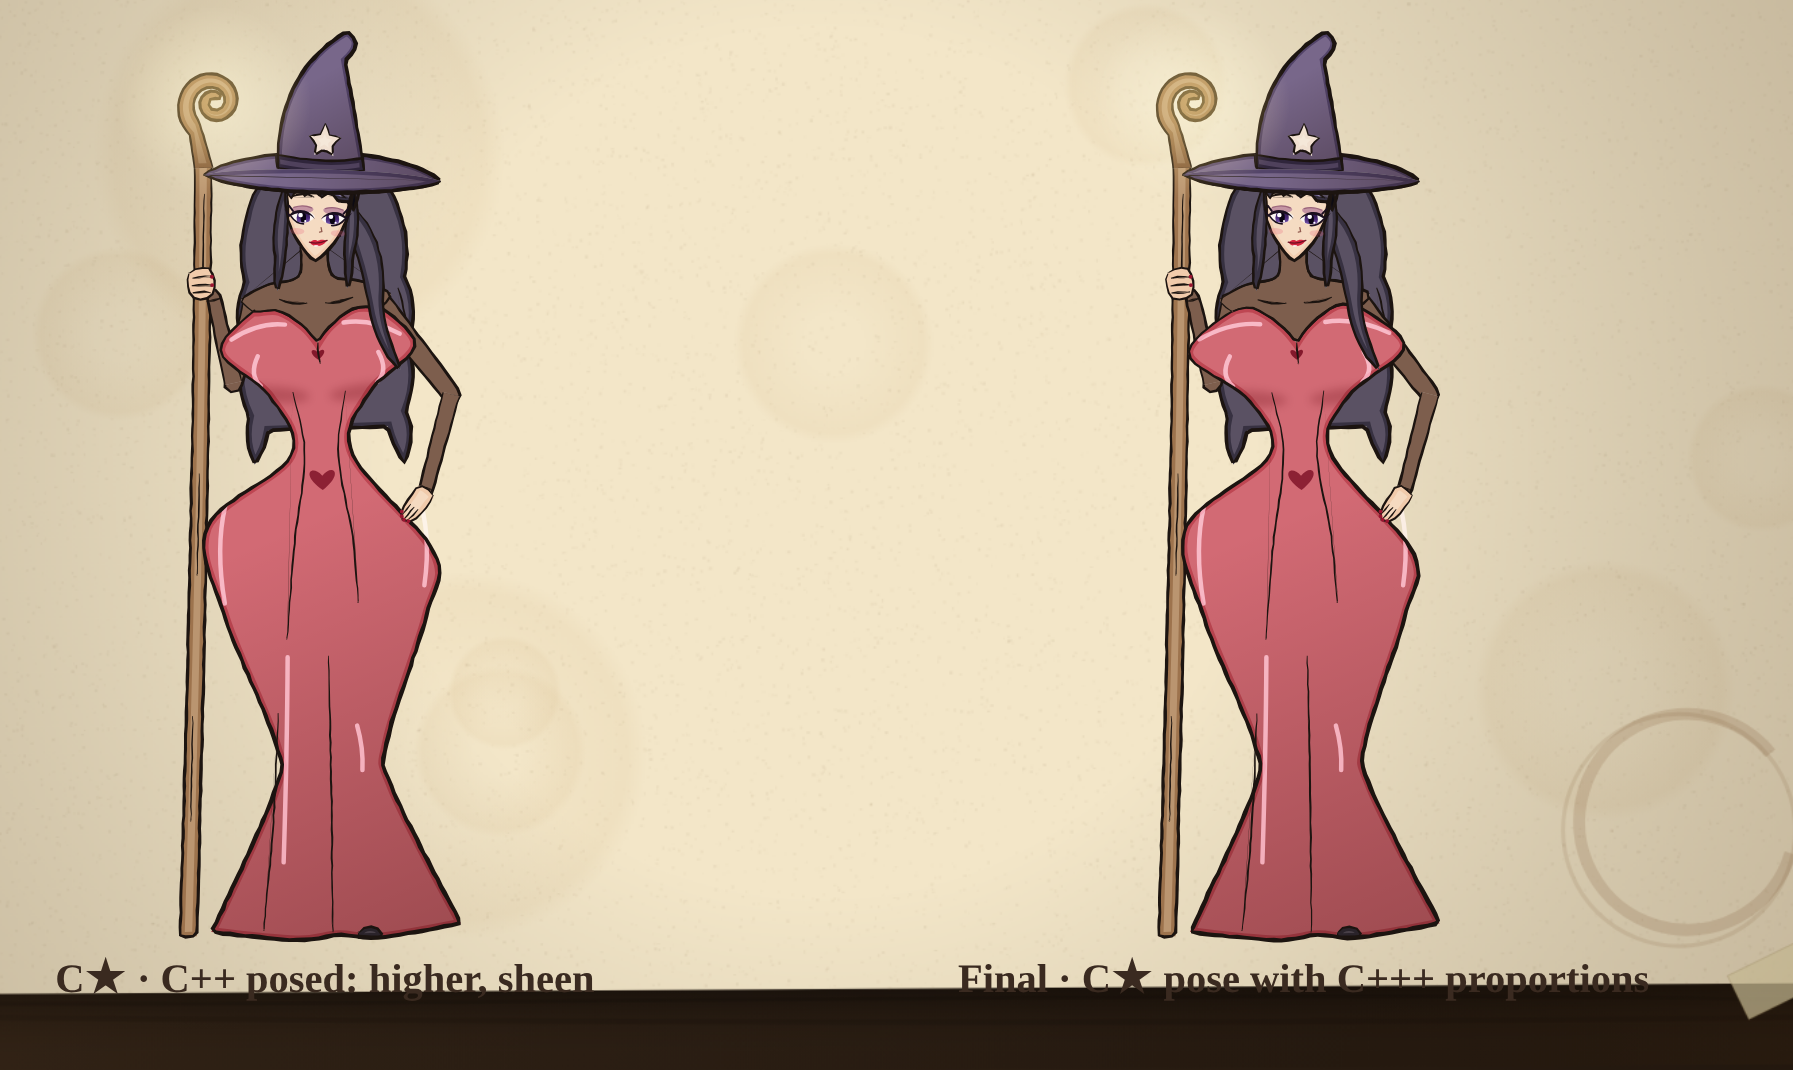
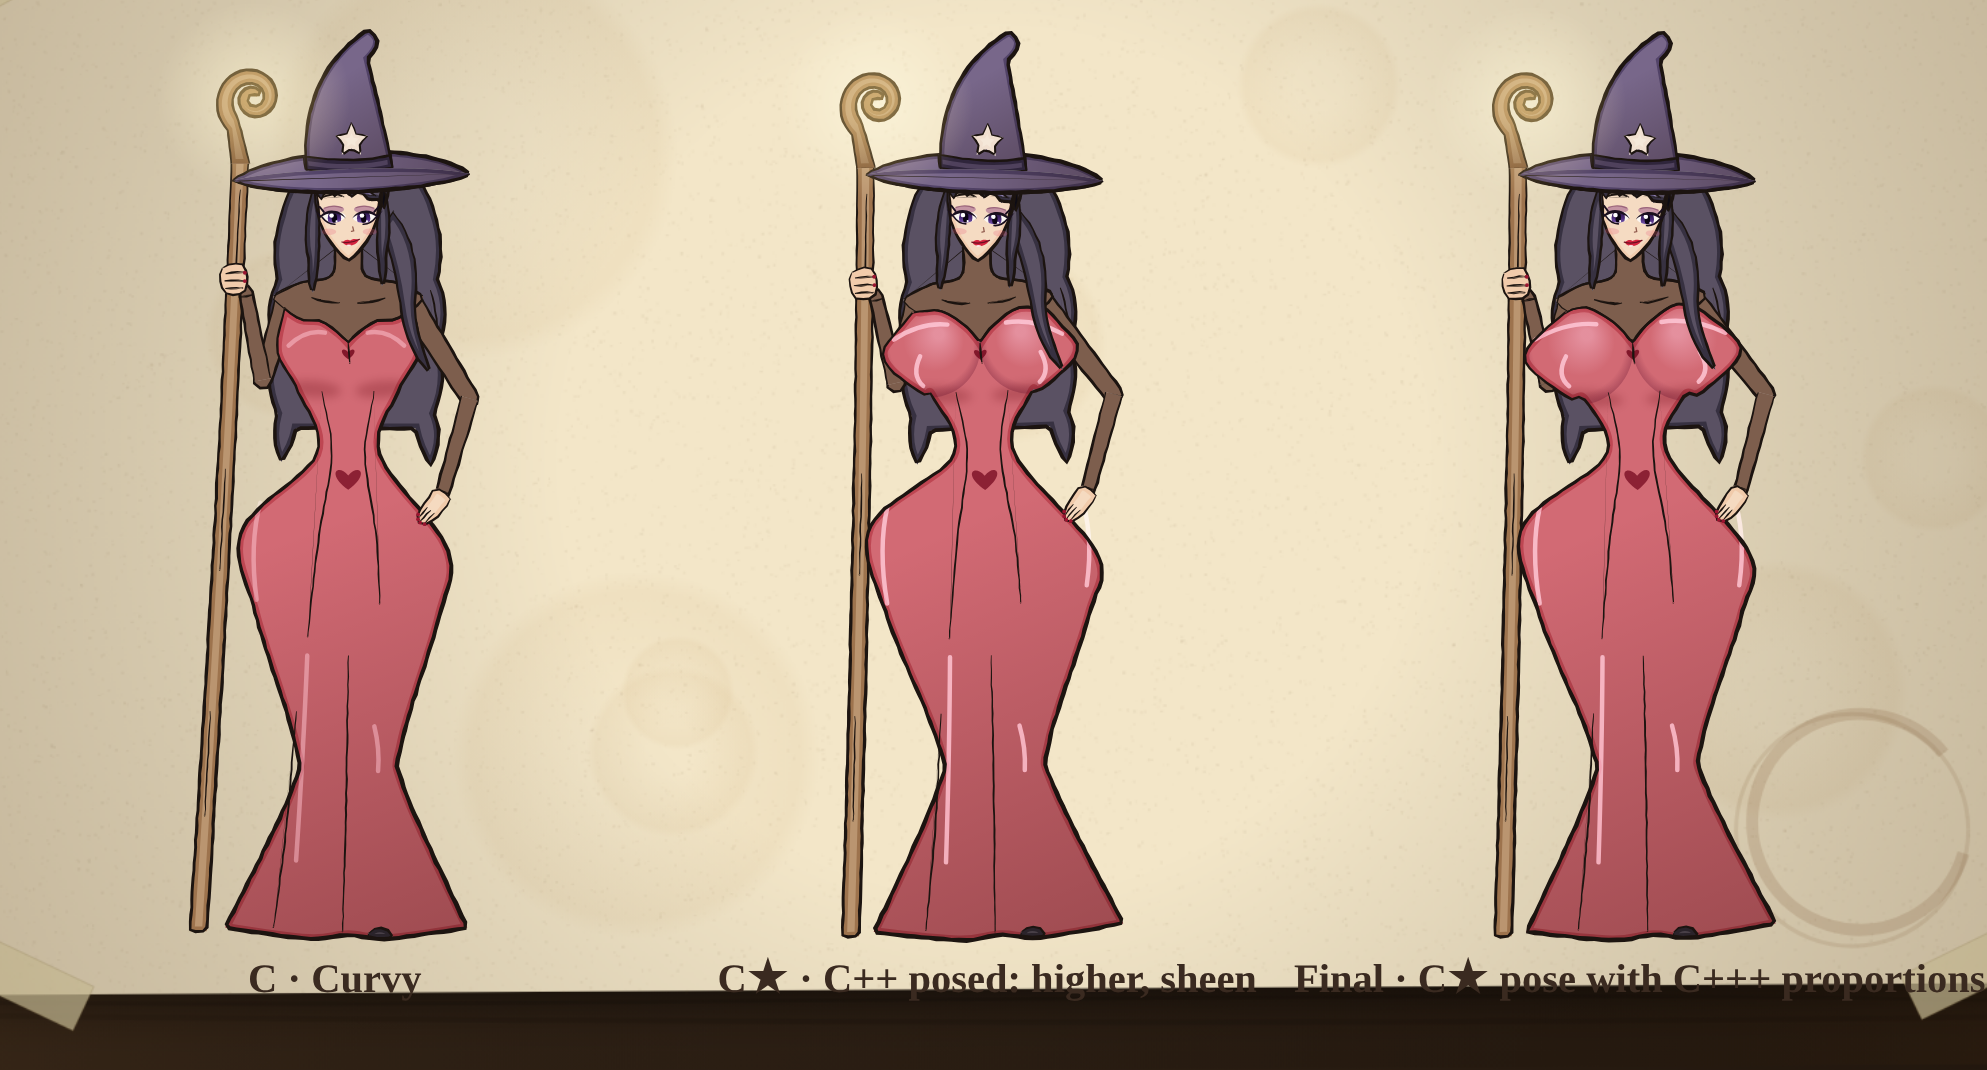
Intro: rounded bust outline and volume shading on the final Mirabel
Claude-Session: https://claude.ai/code/session_01XzFNxAWLNsBGA1aG5XiqgF

Changed region(s): [[0.0, 0.0308, 1.0, 0.9561], [0.9682, 0.771, 1.0, 0.8327], [0.9682, 0.6785, 0.9994, 0.7093]]

diff --git a/docs/cinematic/wip/style_tests.html b/docs/cinematic/wip/style_tests.html
@@ -458,9 +458,11 @@ canvas { display: block; width: 100%; height: 100%; }
     var B = v.B, W = v.W, Hh = v.Hh, Hb = v.Hb || v.Hh, L = v.lift, t = v.tilt, U = -292 + (v.ub || 0) - (v.hi || 0), HI = v.hi || 0; // U: underbust line; HI lifts the bust // Hh: hips, Hb: knees and hem
     var bs = B / 36.5, cupR = [[B * .14, -323 - 4 * (bs - 1) - HI * .4], [B * .38, -329 - 10 * (bs - 1) - HI * .4], [Math.min(31.5, B * .66), -330 - 8 * (bs - 1) - HI * .4]]; // right cup, centre outward
     var cupLn = cupR.slice().reverse().map(function (p) { return [-p[0], p[1]]; });
-    var neck = [[-34, -336, 1]].concat(cupLn, [[0, -318, 1]], cupR, [[34, -336, 1]]);
-    var right = [[B, -313 + (v.ub || 0) * .5 - HI], [W + 10, U], [W, -258 + L], [Hh - 2, -212 + L + t], [Hh * .88, -170 + L * .6], [Hb * .6, -104], [Hb * .63, -78], [Hb + 16, -4, 1], [Hb * .45, 2], [0, 0]];
-    var left = [[-Hb * .45, 2], [-(Hb + 18), -4, 1], [-Hb * .63, -78], [-Hb * .6, -104], [-Hh * .9, -172 + L * .6], [-(Hh + 2), -212 + L - t], [-W, -258 + L], [-(W + 10), U], [-B, -313 + (v.ub || 0) * .5 - HI]];
+    var big = B > 44, ay = -313 + (v.ub || 0) * .5 - HI; // big busts get a rounded outline: upper curve, apex, lower curve, tuck
+    var neck = (big ? [[-35.5, -335.5]] : [[-34, -336, 1]]).concat(cupLn, [[0, -318, 1]], cupR, big ? [[35.5, -335.5]] : [[34, -336, 1]]);
+    var bustR = big ? [[B * .86, ay - 10], [B, ay], [B * .92, ay + 10], [Math.max(W + 13, B * .6), U - 1.5]] : [[B, ay]];
+    var right = bustR.concat([[W + 10, U]]).concat([[W, -258 + L], [Hh - 2, -212 + L + t], [Hh * .88, -170 + L * .6], [Hb * .6, -104], [Hb * .63, -78], [Hb + 16, -4, 1], [Hb * .45, 2], [0, 0]]);
+    var left = [[-Hb * .45, 2], [-(Hb + 18), -4, 1], [-Hb * .63, -78], [-Hb * .6, -104], [-Hh * .9, -172 + L * .6], [-(Hh + 2), -212 + L - t], [-W, -258 + L], [-(W + 10), U]].concat(mirror(bustR).reverse());
     var gown = neck.concat(right, left);
     var cupL = [[-(B - 2.5), -307 + (v.ub || 0) * .6 - HI], [-(B - 9), U - 3.5], [-(B * .5), U - 1.8]]; // outer half of each cup's underside
     var chest = [[-34, -336, 1], [-40, -343], [-26, -350], [-9, -354], [-7.5, -370, 1], [7.5, -370, 1], [9, -354], [26, -350], [40, -343], [34, -336, 1]].concat(cupR.slice().reverse(), [[0, -318, 1]], cupLn.slice().reverse());
@@ -581,6 +583,10 @@ canvas { display: block; width: 100%; height: 100%; }
       var bq = v.B / 36.5, yq = -8 * (bq - 1) + (v.ub || 0) * .5 - (v.hi || 0); ctx.beginPath(); ctx.moveTo(-(v.B - 6), -316 + yq); ctx.quadraticCurveTo(-(v.B * .6), -325 + yq, -12 * bq, -323 + yq); ctx.moveTo(10 * bq, -323 + yq); ctx.quadraticCurveTo(v.B * .55, -325 + yq, v.B - 8, -316 + yq);
       ctx.moveTo(-(v.Hh - 8), -232 + v.lift); ctx.quadraticCurveTo(-(v.Hh - 2), -210 + v.lift, -(v.Hh - 6), -180); ctx.moveTo(-22, -150); ctx.quadraticCurveTo(-24, -100, -28, -40); if (v.sheen) { ctx.moveTo(v.Hh - 10, -236 + v.lift); ctx.quadraticCurveTo(v.Hh - 3, -214, v.Hh - 8, -186); ctx.moveTo(-(v.B * .62), -306 - (v.hi || 0)); ctx.quadraticCurveTo(-(v.B * .72), -296 - (v.hi || 0), -(v.B * .6), -290 - (v.hi || 0)); ctx.moveTo(v.B * .62, -306 - (v.hi || 0)); ctx.quadraticCurveTo(v.B * .72, -296 - (v.hi || 0), v.B * .6, -290 - (v.hi || 0)); } ctx.moveTo(14, -112); ctx.quadraticCurveTo(17, -100, 16, -88); ctx.stroke();
       ctx.restore(); }
+    if (F > .7 && v.B > 44) { var rk = clamp(cF(.7, .2)), cy2 = -313 + (v.ub || 0) * .5 - (v.hi || 0) - 2; ctx.save(); ctx.clip(Bd.gown.path); // round volume on each side: a soft glow in the middle, darker toward the edge
+      [-1, 1].forEach(function (sd) { var cx2 = sd * v.B * .52, rr = v.B * .5, g = ctx.createRadialGradient(cx2 - sd * rr * .2, cy2 - rr * .25, rr * .1, cx2, cy2, rr * 1.05);
+        g.addColorStop(0, 'rgba(255,200,220,' + (.4 * rk) + ')'); g.addColorStop(.55, 'rgba(255,200,220,0)'); g.addColorStop(.8, 'rgba(90,10,40,0)'); g.addColorStop(1, 'rgba(90,10,40,' + (.28 * rk) + ')');
+        ctx.fillStyle = g; ctx.beginPath(); ctx.arc(cx2, cy2, rr * 1.05, 0, 7); ctx.fill(); }); ctx.restore(); }
     if (F > .72) { var hk = clamp(cF(.72, .15)); heartAt(0, -314.5, 5.5, MCOL.gownDk, .9 * hk); heartAt(0, -250 + v.lift, 11, MCOL.gownDk, .8 * hk); }
     group([Bd.gown, Bd.bust, Bd.seams, Bd.shoe, Bd.chest, Bd.shoulders], F / .6 * 1.2, lw);
     // 6. hands: the fist on the staff, the open hand

diff --git a/docs/cinematic/wip/README.md b/docs/cinematic/wip/README.md
@@ -52,3 +52,4 @@ the overall art direction.
 **Final** = the C★ pose (bigger hip cock, slight lean, head tilt), stronger satin sheen and
 higher-set bust, with the C+++ proportions (bust as wide as the hips). It is the default on the
 style test page (`mirabel_final.png`); the Body button still cycles the earlier test models.
+- Large busts (wider than 44 units) get a rounded outline (upper curve, apex, lower curve, tuck into the underbust) and soft round shading on each side.
